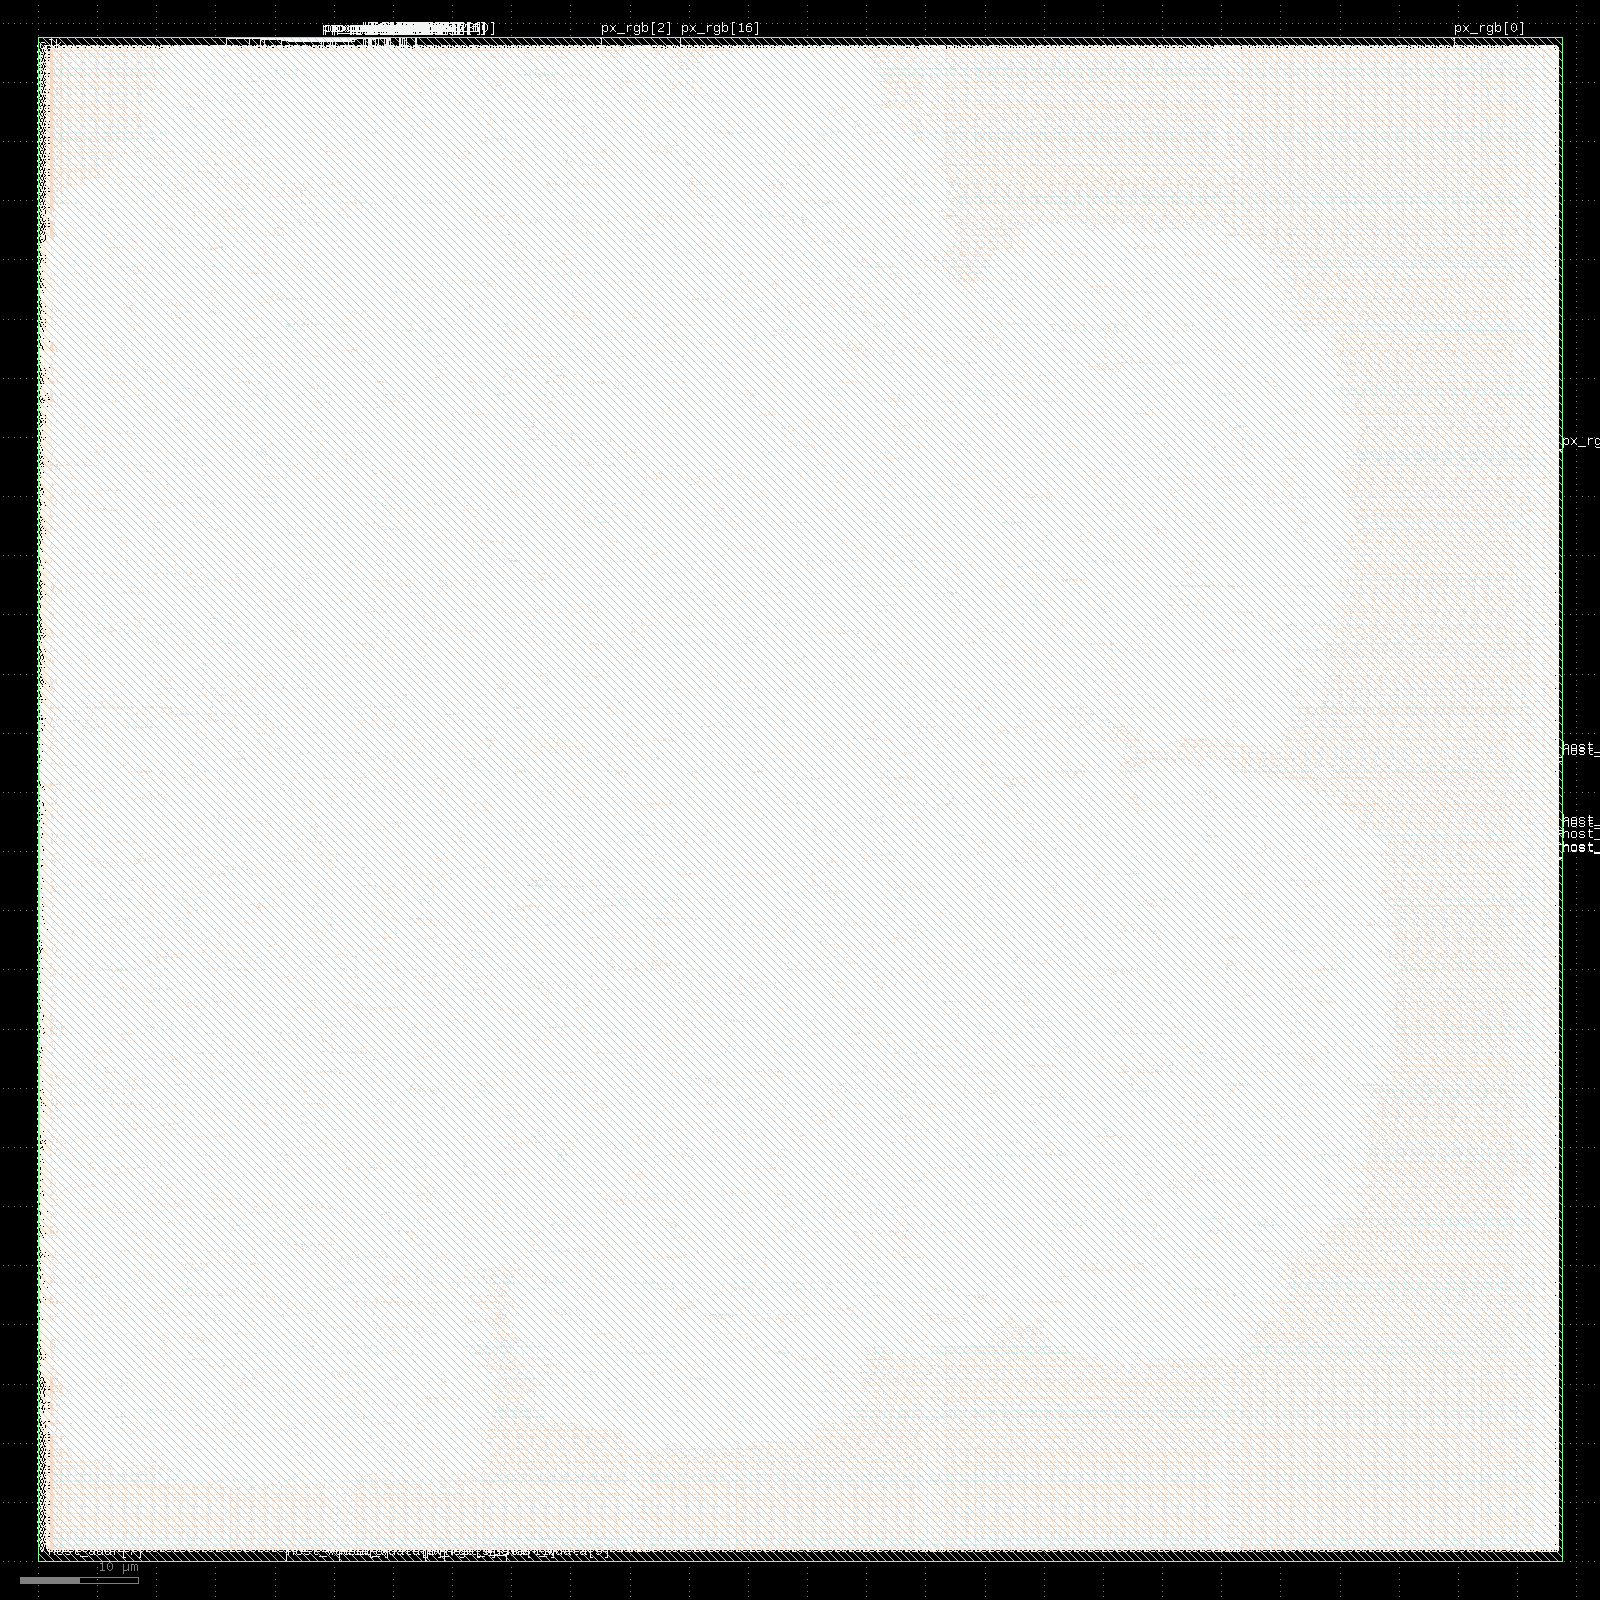
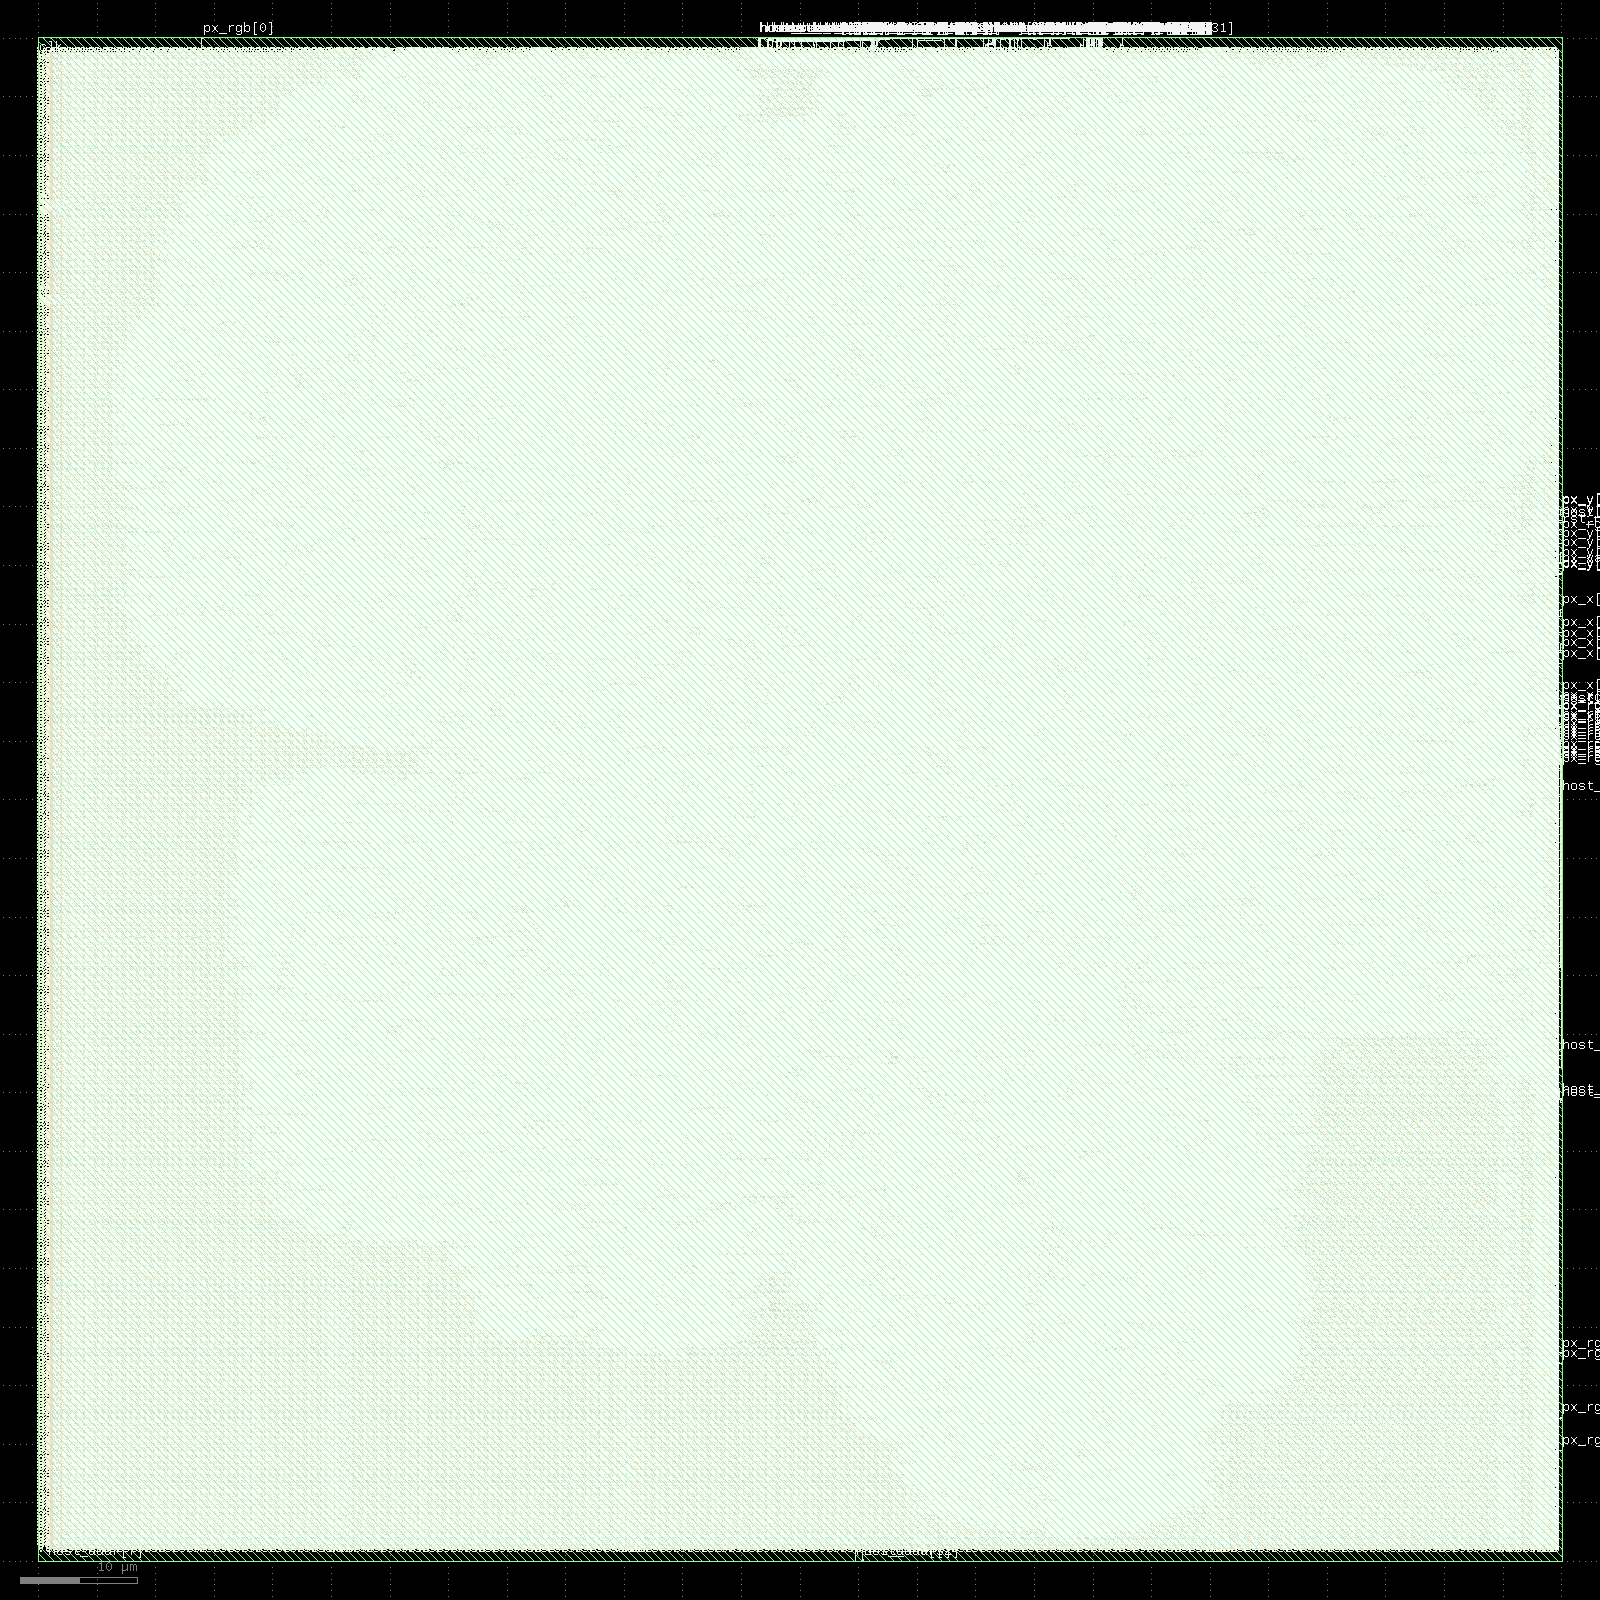
Release v1.2.0: SIMT branching & divergence hardened to ASAP7 7nm (684.7 MHz Fmax, WNS 0.00 ps)

Changed region(s): [[0.0, 0.0, 1.0, 0.9688], [0.4062, 0.0312, 0.4375, 0.0625], [0.2188, 0.4688, 0.25, 0.5]]

diff --git a/README.md b/README.md
@@ -1,10 +1,10 @@
 # nk-simt-gpu (`nk_gpu_top`)
 
-A custom **4-lane SIMT virtual GPU** written from scratch in Verilog-2001, verified with **Cocotb 1.9.2** dual-simulator regression (Icarus Verilog 12.0 & Verilator 5.020 + 87.00% RTL coverage + Python golden model), and hardened to **ASAP7 7 nm FinFET GDSII** using OpenROAD-flow-scripts with **clean timing closure (`WNS = 0.00 ps`, `+157.12 ps` slack)**.
+A custom **4-lane SIMT virtual GPU** written from scratch in Verilog-2001 with **hardware loops (`JMP`/`BEQ`/`BNE`/`BLT`) and per-lane divergence/reconvergence (`IF_EQ`/`IF_LT`/`ELSE`/`ENDIF` + 4-deep mask stack)**, verified with **17/17 Cocotb 1.9.2** dual-simulator tests (Icarus Verilog 12.0 & Verilator 5.020 + 92% RTL coverage + Python golden model), and hardened to **ASAP7 7 nm FinFET GDSII** with **clean timing closure (`WNS = 0.00 ps`, `+139.58 ps` slack)**.
 
 ## Silicon Layout & Shader Output
 
-| ASAP7 7 nm GDSII (`nk_gpu_top`) | Hardware Shader Output (`32×32` RGB) |
+| ASAP7 7 nm GDSII (`nk_gpu_top` `v1.2.0`) | Hardware Shader Output (`32×32` RGB) |
 | :---: | :---: |
 | [assets/nk_gpu_top.png] | [tb/nk_gpu_render.png] |
 
@@ -12,56 +12,40 @@ A custom **4-lane SIMT virtual GPU** written from scratch in Verilog-2001, verif
 
 ```mermaid
 flowchart LR
-    HOST["Host MMIO<br/>IMEM / DMEM / Warp Launch"] --> CTRL["Warp Sequencer &amp; PC<br/>32x32 IMEM + 128x16 DMEM"]
+    HOST["Host MMIO<br/>IMEM / DMEM / Warp Launch"] --> CTRL["Warp Sequencer, PC &amp; 4-Deep SIMT Mask Stack<br/>32x32 IMEM + 128x16 DMEM"]
     CTRL --> L0["Lane 0<br/>16-bit ALU + R0-R7"]
     CTRL --> L1["Lane 1<br/>16-bit ALU + R0-R7"]
     CTRL --> L2["Lane 2<br/>16-bit ALU + R0-R7"]
     CTRL --> L3["Lane 3<br/>16-bit ALU + R0-R7"]
-    L0 & L1 & L2 & L3 --> PX["SETPX Output<br/>RGB565 to RGB888"]
+    L0 & L1 & L2 & L3 --> PX["Masked SETPX Output<br/>RGB565 to RGB888"]
 ```
 
-- **ISA & Datapath:** 32-bit fixed-width instruction word, 16-bit 4-lane SIMT execution (`NOP`, `MOVI`, `ADD`, `SUB`, `MUL`, `ADDI`, `AND`, `OR`, `SHR`, `SHL`, `LD`, `ST`, `SETPX`, `HALT`).
+- **ISA & Datapath:** 32-bit fixed-width instruction word, 16-bit 4-lane SIMT execution (`NOP`, `MOVI`, `ADD`, `SUB`, `MUL`, `ADDI`, `AND`, `OR`, `SHR`, `SHL`, `LD`, `ST`, `SETPX`, `BR`: `JMP`/`BEQ`/`BNE`/`BLT`, `SIMT`: `IF_EQ`/`IF_LT`/`ELSE`/`ENDIF`, `HALT`).
 - **Registers:** `R0` = zero, `R1` = `LANE_ID` (`0..3`), `R2` = `warp_id`, `R3..R7` = per-lane 16-bit GPRs.
 - **Memories:** `32 × 32-bit` instruction memory (`imem`) and `128 × 16-bit` shared data memory (`dmem`).
 
-## ASAP7 7 nm Signoff Metrics (`openroad/orfs`)
+## ASAP7 7 nm Signoff Progression (`openroad/orfs`)
 
-| Metric | `v1.0.0` (1500 ps) | `v1.1.0` (1600 ps, Closed) |
-| :--- | :--- | :--- |
-| **Target Clock** | `1500.0 ps` (`666.7 MHz`) | `1600.0 ps` (`625.0 MHz`) |
-| **Worst Slack / WNS / TNS** | `-32.84 ps` / `-32.84 ps` / `-540.63 ps` | **`+157.12 ps` / `0.00 ps` / `0.00 ps`** |
-| **Achieved Fmax (Post-Route)** | `652.4 MHz` (`1532.84 ps`) | **`693.1 MHz` (`1442.88 ps`)** |
-| **Setup Clock Skew** | `23.78 ps` | `24.37 ps` |
-| **Die / Core Area** | `128.79 × 128.79 µm` (`16,586.35 µm²`) | `128.79 × 128.79 µm` (`16,586.35 µm²`) |
-| **Active Cell Area / Utilization** | `5,462 µm²` / `34%` | `5,469 µm²` / `34%` |
-| **Post-Fill Instance Count** | `127,372` | `127,278` |
-| **Routed Wirelength / Vias** | `303,080 µm` / `562,975` vias | `303,885 µm` / `564,267` vias |
-| **Total Power (`0.77 V`)** | `10.9 mW` | **`10.4 mW`** |
-| **Worst-Case IR Drop** | `0.30%` VDD / `0.29%` VSS | **`0.22%` VDD / `0.24%` VSS** |
-| **DRC / Antenna / LEC** | `0` DRC / `0` Antenna / **PASS** | `0` DRC / `0` Antenna / **PASS** |
+| Metric | `v1.0.0` (1500 ps) | `v1.1.0` (1600 ps, Closed) | `v1.2.0` (SIMT Branch + Mask Stack) |
+| :--- | :--- | :--- | :--- |
+| **Target Clock** | `1500.0 ps` (`666.7 MHz`) | `1600.0 ps` (`625.0 MHz`) | `1600.0 ps` (`625.0 MHz`) |
+| **Worst Slack / WNS / TNS** | `-32.84 ps` / `-32.84 ps` / `-540.63 ps` | `+157.12 ps` / `0.00 ps` / `0.00 ps` | **`+139.58 ps` / `0.00 ps` / `0.00 ps`** |
+| **Achieved Fmax (Post-Route)** | `652.4 MHz` (`1532.84 ps`) | `693.1 MHz` (`1442.88 ps`) | **`684.7 MHz` (`1460.42 ps`)** |
+| **Setup Clock Skew** | `23.78 ps` | `24.37 ps` | **`22.97 ps`** |
+| **Die Area** | `128.79 × 128.79 µm` | `128.79 × 128.79 µm` | `130.05 × 130.05 µm` (`16,913.26 µm²`) |
+| **Active Cell Area / Util** | `5,462 µm²` / `34%` | `5,469 µm²` / `34%` | `5,543 µm²` / `34%` |
+| **Post-Fill Instance Count** | `127,372` | `127,278` | `128,600` |
+| **Routed Wirelength / Vias** | `303,080 µm` / `562,975` | `303,885 µm` / `564,267` | **`297,988 µm` / `562,762`** |
+| **Total Power (`0.77 V`)** | `10.9 mW` | `10.4 mW` | `11.5 mW` |
+| **Worst-Case IR Drop** | `0.30%` VDD / `0.29%` VSS | `0.22%` VDD / `0.24%` VSS | `0.26%` VDD / `0.18%` VSS |
+| **DRC / Antenna / LEC** | `0` DRC / `0` Ant / **PASS** | `0` DRC / `0` Ant / **PASS** | `0` DRC / `0` Ant / **PASS** |
 
-## Verification (`Cocotb 1.9.2` + Golden Model)
+## Verification (`17/17` Cocotb Dual-Sim + Golden Model)
 
-- **`driver/nk_gpu_golden.py`**: Bit-exact 16-bit 4-lane SIMT golden model + functional coverage tracker.
-- **5/5 Dual-Sim Tests PASS (`26,480 ns` on Icarus Verilog 12.0 & Verilator 5.020):**
-  - `test_simt_vector_mac_kernel`: `C[i] = A[i] * B[i] + D[i]` across 4 warps (16 threads).
-  - `test_virtual_gpu_shader_render`: `32×32` RGB shader rendered on RTL and exported to `tb/nk_gpu_render.png`.
-  - `test_directed_isa_corner_cases`: All 14 opcodes, 16-bit overflow/underflow, shifts by 0 and 15, read-only `R0..R2` protection, 7-bit `dmem` wrap, and `SETPX` RGB565→RGB888.
-  - `test_constrained_random_simt_fuzz`: 20 randomized multi-warp programs checked against the golden model (**14/14 opcodes**, **8/8 registers**, **9/9 corner cases**).
-  - `test_mmio_guard_while_busy`: Verifies `host_we` writes are ignored while `gpu_busy=1`.
-- **Verilator RTL Coverage:** `87.00%` (`104/119`), uploaded in CI.
-
-### Golden-model & coverage-driven regression (`tb/test_nk_gpu_verif.py`)
-
-- **Golden model** (`tb/nk_gpu_model.py`): Python reference of the full ISA; after every launch the DUT's full DMEM, SETPX pixel stream and status word are compared against it.
-- **Directed tests:** ALU corner cases (carry, borrow, overflow), all 16 shift amounts, special registers R0/R1/R2, DMEM address wrap and same-address lane conflicts, SETPX protocol and RGB565→RGB888, NOP/undefined opcodes, host interface (busy lock-out, sticky done), reset mid-run.
-- **Constrained-random:** `NK_RAND_PROGRAMS` programs × 2 launches per seed (`NK_SEED`), with corner-biased operands and warp IDs.
-- **Functional coverage** (`tb/nk_gpu_cov.py`): 92 required bins (opcodes, registers, shift amounts, arithmetic corners, memory wrap/conflict, SETPX, warp-ID classes) — the regression fails if any bin is missed.
-- **Result:** `12/12` tests pass on Icarus and Verilator, `92/92` bins covered; 5 of 6 injected RTL bugs are caught (the sixth is an equivalent mutant).
-
-```bash
-NK_SEED=7 NK_RAND_PROGRAMS=200 make -C tb SIM=icarus MODULE=test_nk_gpu_verif
-```
+- **`driver/nk_gpu_golden.py`**: Bit-exact 16-bit 4-lane SIMT reference model with active-mask stack & functional coverage.
+- **17/17 Dual-Sim Tests PASS (`108,692 ns` on Icarus Verilog 12.0 & Verilator 5.020):**
+  - `test_nk_gpu.py` (7 tests): Vector MAC kernel, `32×32` RGB shader, directed ISA corner cases, 20-program constrained-random SIMT fuzzer, MMIO busy guard, nested SIMT divergence (`IF_LT`/`IF_EQ`/`ELSE`/`ENDIF` + masked `SETPX`), and in-kernel hardware loop (`BLT`/`BEQ`).
+  - `test_nk_gpu_verif.py` (10 tests): ALU/shift/special-reg/memory/SETPX protocol directed suites, reset-during-run, 80-program random regression, and strict functional coverage gate.
 
 ## Quickstart
 
